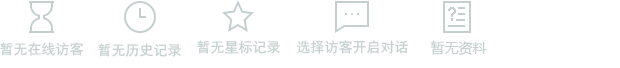
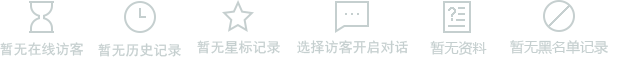
develop

Changed region(s): [[0.8581, 0.0, 0.95, 0.4706], [0.7968, 0.5882, 0.9806, 0.7941]]

diff --git a/chat/chat.html b/chat/chat.html
@@ -131,6 +131,7 @@
                 </ul>
                 <div class="tab-content">
                     <div class="tab-pane active leftScroll  js-chatonline zc-scroll"  id="chatonline">
+                        <i class="js-onlineBg onlineBg"></i>
                         <ul id="users" class="js-users-list js-list"></ul>
                         <ul id="offlineUser"></ul>
                     </div>
@@ -157,6 +158,7 @@
                 <div id="main-content">
                     <div class="container-fluid" >
                         <div class="row chatCont" id="chatlist">
+                          <i class="chatContBg js-chatContBg"></i>
                             <div class="col-md-8 col-xs-8 chat js-TextArea" style="padding: 0px;display:none;min-width: 575px;" id="chat">
                                 <header class='clearfix'>
                                     <span style="margin-left: 15px;cursor: pointer;color: #555459;font-weight: 900;float:left" class="chat_user_title"></span>
@@ -279,7 +281,10 @@
                                         <div class="js-tab-content tab-content tab-border" style="border:0;">
                                             <!--客户资料-->
                                             <div class="js-tab-pane-profileuser js-tab-pane tab-pane fade active in" id="profileuser">
-
+                                              <!-- <div class="js-tab-profilebg tab-profilebg" >
+                                                <img src="./assets/images/bgspirt.png" alt="" />
+                                              </div> -->
+                                              <i class="js-tab-profilebg tab-profilebg"></i>
                                                 <!--改版：  客户资料 通过模板加载-->
 
                                             </div>

diff --git a/chat/js/rightside/main.js b/chat/js/rightside/main.js
@@ -56,13 +56,13 @@ function RightSide(node,core,window) {
         $(node).find('.js-clientSysIframe').css('height',newHeight - 52 + 'px');
 
         //背景图片定位计算
-        var h = $('#left-navigation').height();
-        var oh = $('.js-chatonline').height();
-        var ah = h/2 - (h-oh)-32.5;
-        $('.js-chatonline').css('background-position','center '+ah+'px');
-        var listH =  $("#historylist").height();
-        var aListH = h/2 -(h-listH) - 32.5;
-        $('.js-history-list li').css('background-position','center '+aListH+'px');
+        // var h = $('#left-navigation').height();
+        // var oh = $('.js-chatonline').height();
+        // var ah = h/2 - (h-oh)-32.5;
+        // $('.js-chatonline').css('background-position','center '+ah+'px');
+        // var listH =  $("#historylist").height();
+        // var aListH = h/2 -(h-listH) - 32.5;
+        // $('.js-history-list li').css('background-position','center '+aListH+'px');
     };
     $(window).resize(function(){
       onloadHandler();
@@ -210,7 +210,8 @@ function RightSide(node,core,window) {
     var onHideProfileInfo = function() {
         config.isShowBg = true;
         //是否显示用户资料模块背景图片
-        $(node).find('.js-panel-body').addClass('showBg').find('.js-tab-pane#profileuser').html('');
+        // $(node).find('.js-panel-body').addClass('showBg').find('.js-tab-pane#profileuser').html('');
+        $(node).find('.js-tab-pane#profileuser').html('<i class="js-tab-profilebg tab-profilebg"></i>').find('.js-tab-profilebg').removeClass('hide');
     };
     var parseDOM = function() {
         tabSwitchNav = $(node).find('.js-panel-body .js-nav-tabs');

diff --git a/chat/js/leftside/offline.js b/chat/js/leftside/offline.js
@@ -8,7 +8,7 @@ function Offline(node,core,window) {
     var that = {};
     var USOURCE = require('./source.json');
     var Item = require('./chatItem.js');
-    var CLASSNAME = ['','noStar','noBlack'];
+    var CLASSNAME = ['noAll','noStar','noBlack'];
     var loadFile = require('../util/load.js')();
     var Promise = require('../util/promise.js');
     var normalMessageAdapter = require('../util/normatMessageAdapter.js');
@@ -87,6 +87,7 @@ function Offline(node,core,window) {
                     'pageNow' : pageNow
                 }
             }).success(function(ret) {
+                // ret=[];
                 dataAdapter(ret);
                 if(ret.length == 0) {
                     end = true;
@@ -124,10 +125,10 @@ function Offline(node,core,window) {
                     },10);
                 }
                 //FIXME 为空时定位空背景图片
-                var h = $('#left-navigation').height();
-                var listH =  $ulOuter.height();
-                var aListH = h/2 -(h-listH) - 32.5;//32.5 背景图/2
-                $ulOuter.find('li.fullscreen').css('background-position','center '+aListH+'px');
+                // var h = $('#left-navigation').height();
+                // var listH =  $ulOuter.height();
+                // var aListH = h/2 -(h-listH) - 32.5;//32.5 背景图/2
+                // $ulOuter.find('li.fullscreen').css('background-position','center '+aListH+'px');
             });
         });
     };

diff --git a/chat/css/webchat4_1.css b/chat/css/webchat4_1.css
@@ -17,7 +17,7 @@
 }
 ul.history-list {
     overflow-x: hidden;
-    
+
     width: 100%;
 }
 #user_menu i.connection_icon.online {
@@ -58,15 +58,35 @@ ul.history-list {
     overflow-y: auto;
 }
 .tab-content  li.fullscreen.noBlack {
-    background-image: url("../assets/images/noBlockList.png");
+    background-image: url("../assets/images/bgspirt.png");
+    background-position: -510px;
 }
 .tab-content  li.fullscreen.noStar {
-    background-image: url("../assets/images/noStarList.png");
+    background-image: url("../assets/images/bgspirt.png");
+    background-position: -188px;
+}
+.tab-content  li.fullscreen.noAll {
+    background-image: url("../assets/images/bgspirt.png");
+    background-position: -88px;
 }
 .tab-content  li.fullscreen {
-    height: 100% !important;
+    width: 100px !important;
+    height: 510px !important;
     background-repeat: no-repeat;
+    margin: 0 auto;
     /*background-position: center center;*/
+}
+.tab-content .onlineBg{
+  position: absolute;
+  top:395px;
+  left: 100px;
+  width: 100px;
+  height: 65px;
+  background-image: url("../assets/images/bgspirt.png");
+  background-position-x:8px;
+}
+.tab-content .onlineBg.hide{
+  display: none;
 }
 .tab-content  li.user-list-item {
     width: 100%;

diff --git a/chat/css/webchat4.0.css b/chat/css/webchat4.0.css
@@ -1842,18 +1842,28 @@ body,html{
   background-position:center 27.5%;
 }
 #historylist.noStar{
-  background: url("../assets/images/noStarList.png") no-repeat;
+  background: url("../assets/images/bgspirt.png.png") no-repeat;
   background-position:center 27.5%;
 }
 .noOnline{
-  background: url("../assets/images/noOnlinePerson.png") no-repeat;
+  /*background: url("../assets/images/noOnlinePerson.png") no-repeat;
   background-color:#f2f7f7;
-  background-position:center 34%;
+  background-position:center 34%;*/
 }
 .chatCont{
-  background: url("../assets/images/noSession.png") no-repeat;
+	position: relative;
+  /*background: url("../assets/images/noSession.png") no-repeat;
   background-position:34% center;
-  height:100%;
+  height:100%;*/
+}
+.chatCont .chatContBg{
+	position: absolute;
+	width: 130px;
+	height: 65px;
+	top:390px;
+	left:310px;
+	background: url("../assets/images/bgspirt.png") no-repeat;
+	background-position-x:-286px;
 }
 #clientSystems a:link {color: #a4b2b3} /* 未访问的链接 */
 #clientSystems a:visited {color: #a4b2b3} /* 已访问的链接 */

diff --git a/chat/css/rightside.css b/chat/css/rightside.css
@@ -125,14 +125,27 @@ ul {
   background-color: #fff;
 }
 /****homeuser css***/
-.tab-pane#profileuser.showBg {
+/*.tab-pane#profileuser.showBg {
     background: url(../assets/images/noProfileUserInfo.png) center  no-repeat
 }
 .panel-body.showBg{
   background: url(../assets/images/noProfileUserInfo.png) center no-repeat
-}
+}*/
 .rightBox .panel-body .tab-pane#homeuser p.searchBot {
     margin: 0 0 10px;
+}
+.rightBox .panel-body .tab-profilebg {
+  width: 65px;
+  height: 65px;
+  margin: 0 auto;
+  margin-top: 300px;
+  /*position: relative;*/
+  display: block;
+  background: url(../assets/images/noProfileUserInfo.png) no-repeat;
+  background-position-x: -27px;
+}
+.rightBox .panel-body .tab-profilebg.hide{
+  display: none;
 }
 
 /****clientSystem*****/

diff --git a/chat/js/leftside/online.js b/chat/js/leftside/online.js
@@ -20,9 +20,12 @@ function Online(node,core,window) {
             count++;
         }
         if(count == 0) {
+            $(node).find('.onlineBg').removeClass('hide');
             $node.addClass("noOnline");
+
         } else {
             $node.removeClass("noOnline");
+            $(node).find('.onlineBg').addClass('hide');
         }
     };
     var clearSeleted = function() {
@@ -109,6 +112,7 @@ function Online(node,core,window) {
             } else {
                 var height = $(node).outerHeight();
                 $node.addClass("noOnline");
+                $(node).find('.onlineBg').removeClass('hide');
             }
         });
     };

diff --git a/chat/js/rightside/profileuser/index.js b/chat/js/rightside/profileuser/index.js
@@ -42,6 +42,7 @@ var ProfileUser = function(node,core,userData) {
         if(data) {
             //客户资料背景清除
             $(node).html('').parents('.js-panel-body').removeClass('showBg');
+            $(node).html('').parents('.js-panel-body .js-tab-profilebg').addClass('hide');
             loadFile.load(global.baseUrl + 'views/rightside/profileUser.html').then(function(value) {
                 //组装对话页
                 data.userData["visit"] = onVisitHandle(data.userData['visitUrl'],data.userData['visitTitle']);
